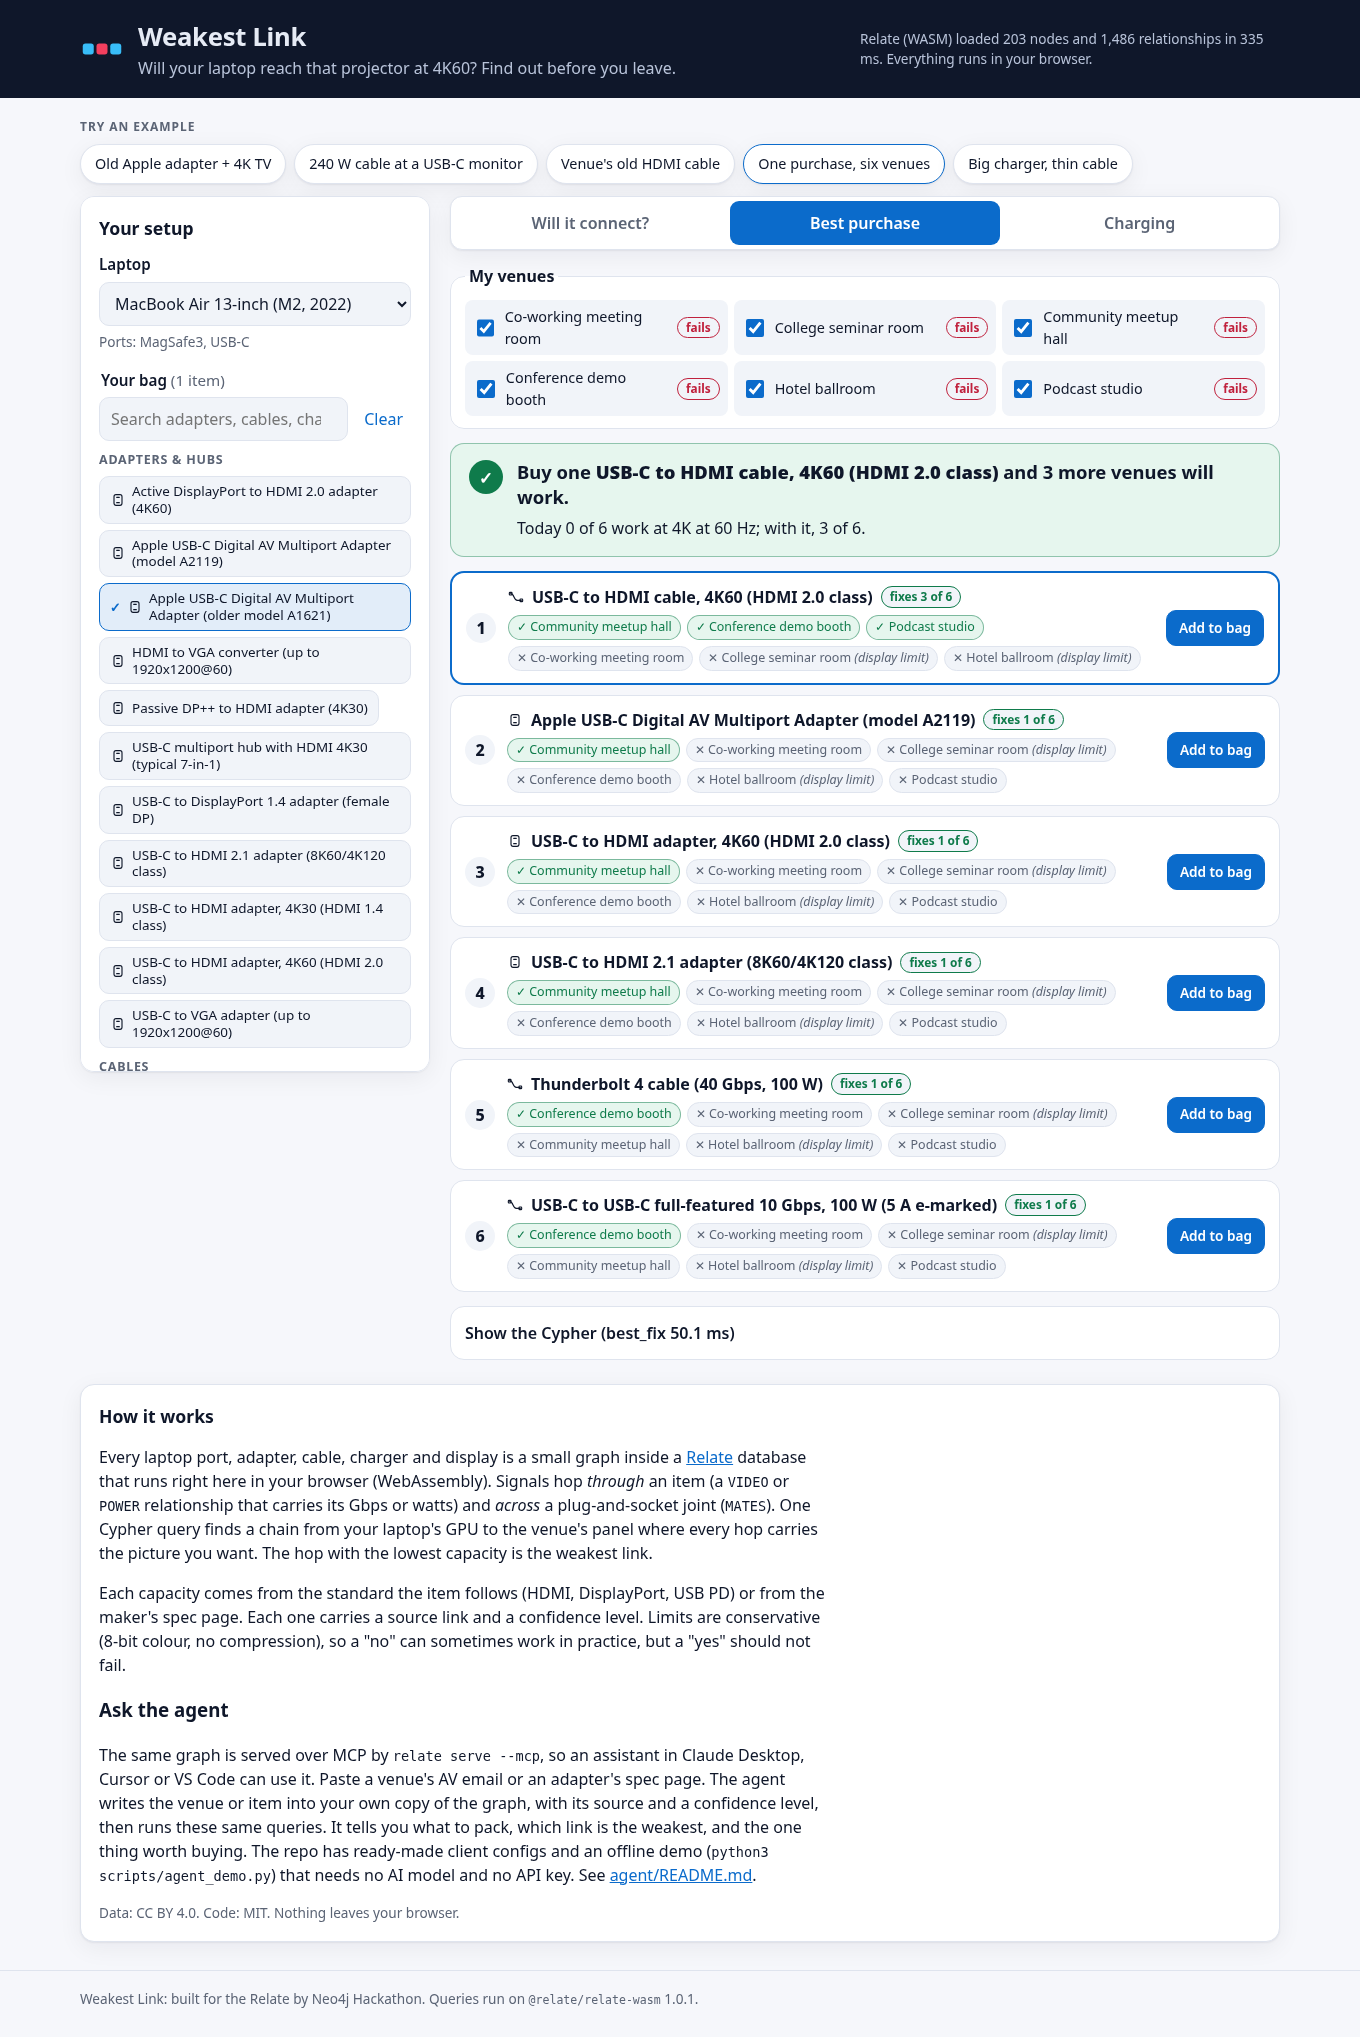
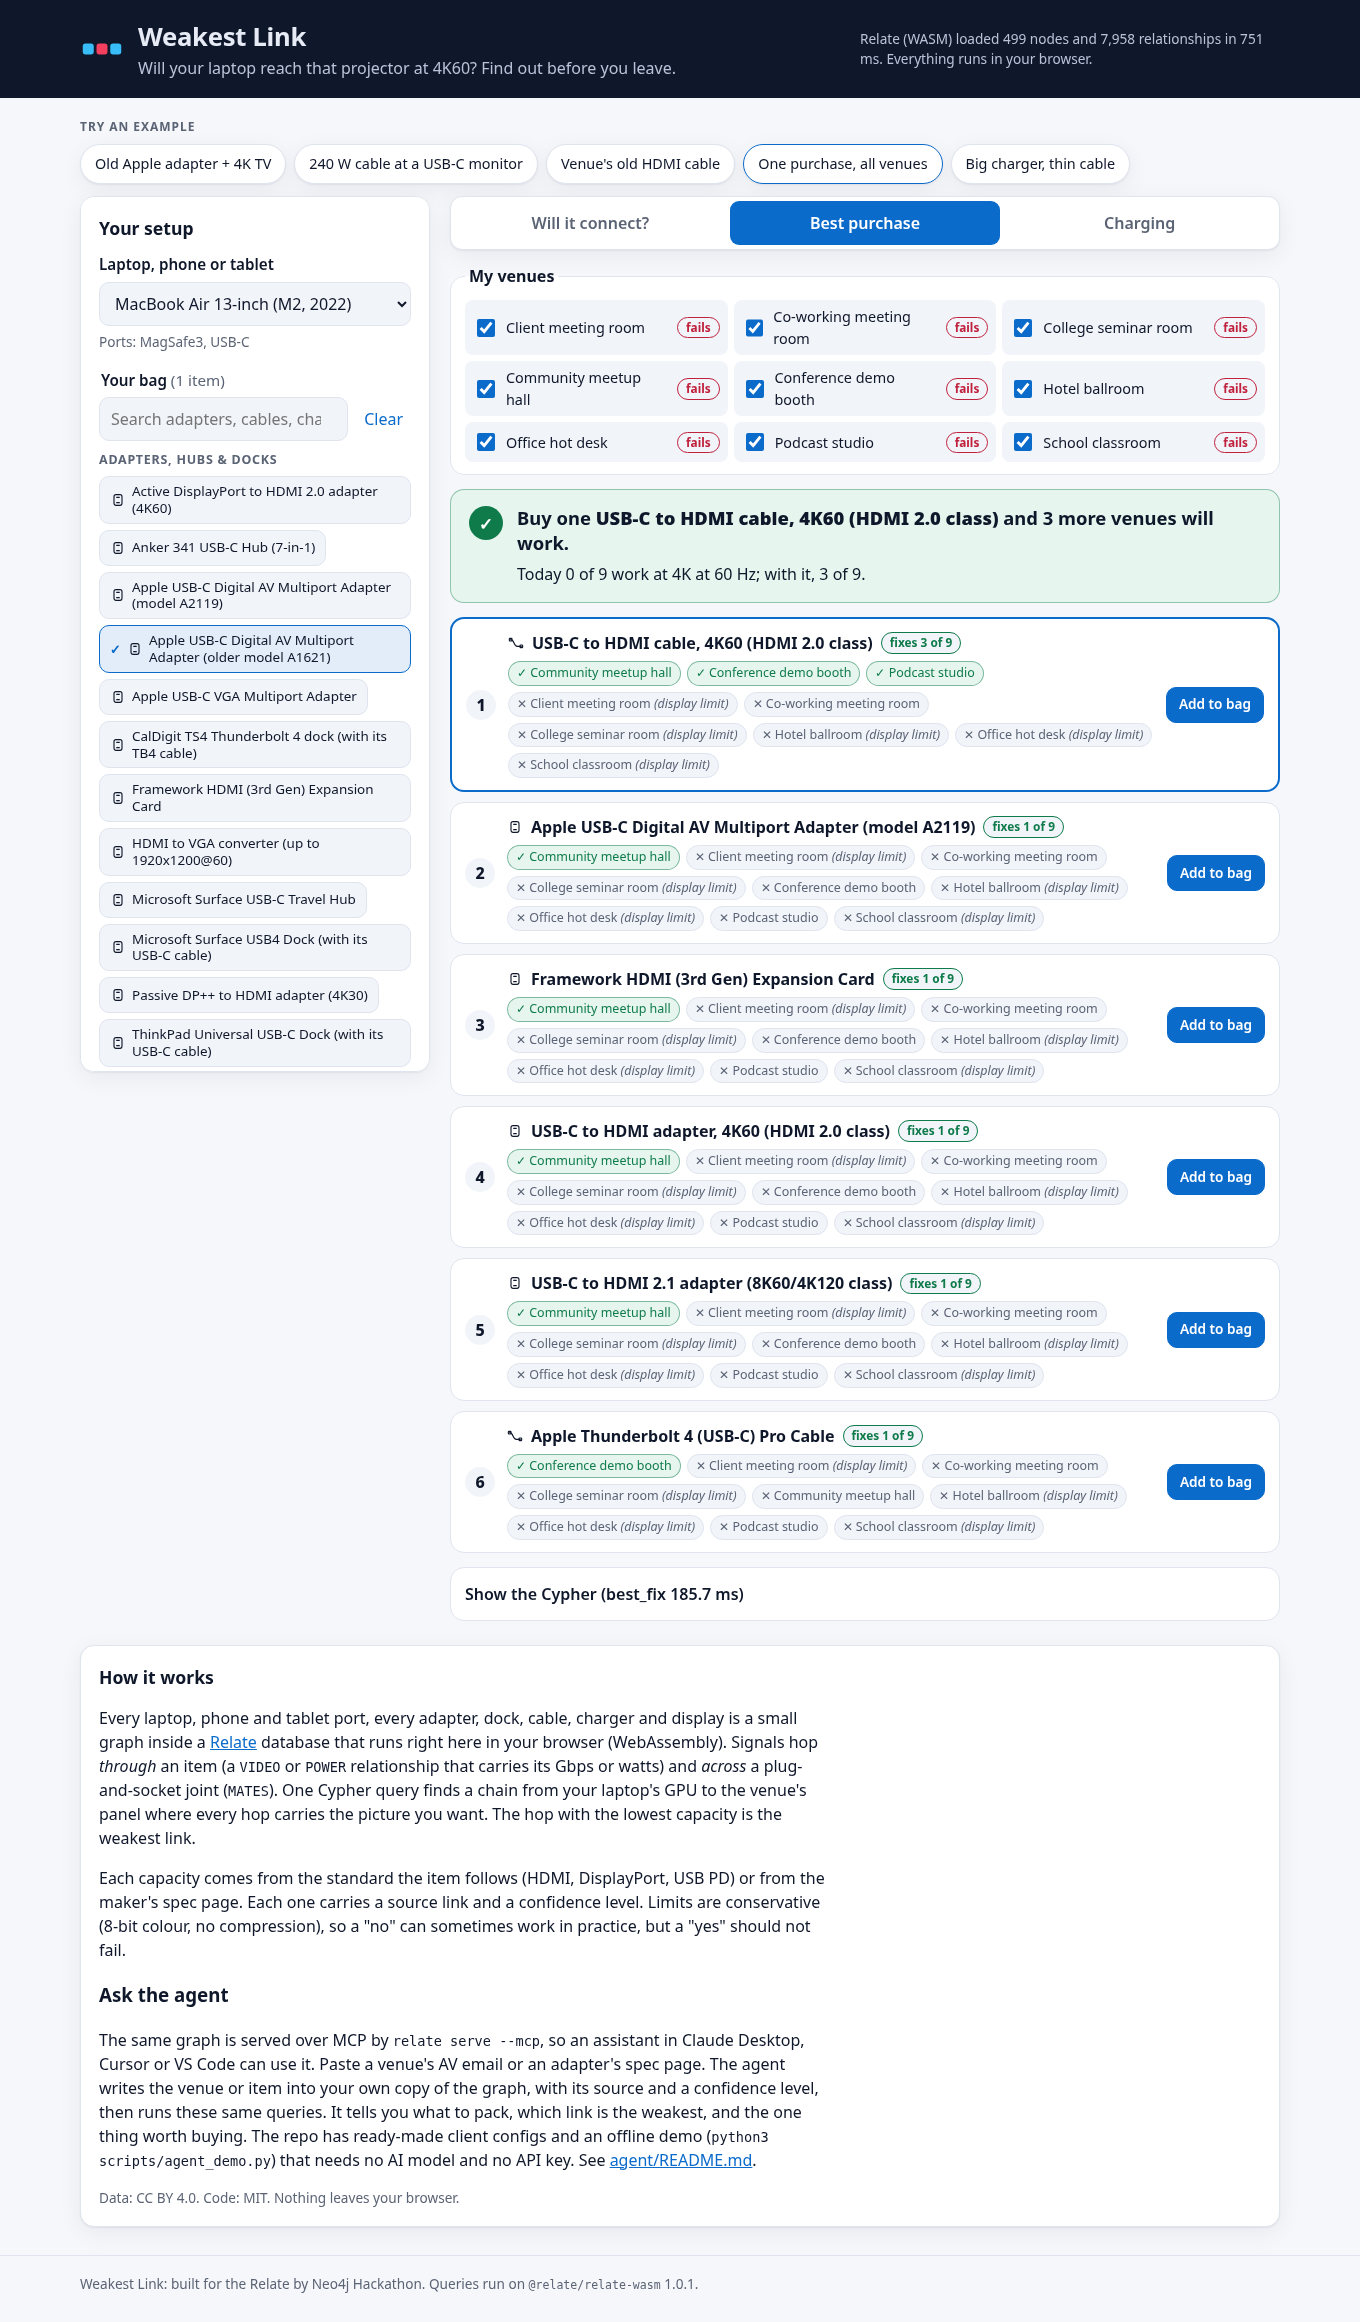
UI: phones and tablets in the device picker, docks and USB-C monitors count as chargers, public source links, e2e tests for the new traps, refreshed screenshots

Changed region(s): [[0.0, 0.0, 1.0, 0.9897], [0.8956, 0.1237, 0.9265, 0.2165]]

diff --git a/web/src/main.js b/web/src/main.js
@@ -20,7 +20,10 @@ const CUSTOM_INPUTS = [
   { id: 'usbc', connector: 'USB-C', standard: 'DP-Alt-4L-HBR3', label: 'USB-C (DisplayPort)' },
   { id: 'vga', connector: 'VGA', standard: 'VGA-1200p', label: 'VGA' },
 ];
-const BAG_GROUPS = [['adapter', 'Adapters & hubs'], ['cable', 'Cables'], ['charger', 'Chargers']];
+const BAG_GROUPS = [['adapter', 'Adapters, hubs & docks'], ['cable', 'Cables'], ['charger', 'Chargers']];
+const DEVICE_GROUPS = [['laptop', 'Laptops'], ['phone', 'Phones'], ['tablet', 'Tablets']];
+const isDevice = (id) => DEVICE_GROUPS.some(([k]) => k === ITEM.get(id)?.kind);
+const deviceWord = () => ({ phone: 'phone', tablet: 'tablet' })[ITEM.get(state.laptop)?.kind] || 'laptop';
 const ICON = {
   laptop: '<path d="M5 6h14v9H5z"/><path d="M2 18h20"/>',
   adapter: '<rect x="6" y="4" width="12" height="16" rx="3"/><path d="M10 8h4M10 16h4"/>',
@@ -32,7 +35,7 @@ const EXAMPLES = [
   { label: 'Old Apple adapter + 4K TV', state: { laptop: 'mba-m2', bag: ['adp-apple-av-a1621', 'hub-usbc-4k30', 'chg-apple-70w', 'cable-usbc-usb2-60w'], venue: 'meetup-hall', mode: '4K60', tab: 'connect' } },
   { label: '240 W cable at a USB-C monitor', state: { laptop: 'mba-m2', bag: ['cable-usbc-usb2-240w', 'chg-apple-70w'], venue: 'conference-booth', mode: '4K60', tab: 'connect' } },
   { label: "Venue's old HDMI cable", state: { laptop: 'mbp14-m3', bag: [], venue: 'studio-tv', mode: '4K60', tab: 'connect' } },
-  { label: 'One purchase, six venues', state: { laptop: 'mba-m2', bag: ['adp-apple-av-a1621'], venue: 'meetup-hall', mode: '4K60', tab: 'fix' } },
+  { label: 'One purchase, all venues', state: { laptop: 'mba-m2', bag: ['adp-apple-av-a1621'], venue: 'meetup-hall', mode: '4K60', tab: 'fix' } },
   { label: 'Big charger, thin cable', state: { laptop: 'mbp14-m3', bag: ['chg-apple-140w', 'cable-usbc-usb2-60w'], venue: 'meetup-hall', mode: '4K60', tab: 'power' } },
 ];
 
@@ -79,7 +82,7 @@ function writeHash() {
   history.replaceState(null, '', '#' + p.toString());
 }
 function sanitizeState() {
-  if (!ITEM.has(state.laptop) || ITEM.get(state.laptop).kind !== 'laptop') state.laptop = 'mba-m2';
+  if (!ITEM.has(state.laptop) || !isDevice(state.laptop)) state.laptop = 'mba-m2';
   state.bag = new Set([...state.bag].filter((id) => ITEM.has(id) && ['adapter', 'cable', 'charger'].includes(ITEM.get(id).kind)));
   if (state.venue !== 'custom' && !VENUE.has(state.venue)) state.venue = 'meetup-hall';
   if (!MODE.has(state.mode)) state.mode = '4K60';
@@ -88,8 +91,8 @@ function sanitizeState() {
 
 // ---------- controls ----------
 function renderControls() {
-  const laptops = CAT.items.filter((i) => i.kind === 'laptop');
-  $('#laptop').innerHTML = laptops.map((i) => `<option value="${i.id}">${esc(i.name)}</option>`).join('');
+  $('#laptop').innerHTML = DEVICE_GROUPS.map(([kind, title]) => `<optgroup label="${title}">${CAT.items.filter((i) => i.kind === kind)
+    .map((i) => `<option value="${i.id}">${esc(i.name)}</option>`).join('')}</optgroup>`).join('');
   $('#laptop').value = state.laptop;
 
   $('#venue').innerHTML = CAT.venues.map((v) => `<option value="${v.id}">${esc(v.name)}</option>`).join('')
@@ -148,7 +151,7 @@ function applyCustom() {
 
 // ---------- chain diagram ----------
 function hopOwner(id) {
-  if (id === state.laptop) return 'Your laptop';
+  if (id === state.laptop) return `Your ${deviceWord()}`;
   const venueProvides = state.venue === 'custom' ? ['custom-display', state.custom.cable] : VENUE.get(state.venue)?.provides || [];
   if (state.bag.has(id) && !venueProvides.includes(id)) return 'In your bag';
   if (venueProvides.includes(id)) return 'At the venue';
@@ -244,7 +247,7 @@ function renderConnect() {
     diagram = chainDiagram(best.hops, best.joints, { unit: 'Gbps', need: mode.gbps, weakest: best.weakest_item });
   } else {
     const dispConn = run(`MATCH (:Item {id: $d})-[:HAS_PORT]->(p:Port) RETURN collect(DISTINCT p.connector) AS c`, { d: displayId })[0]?.c || [];
-    verdict = verdictCard('bad', 'No. Nothing in your bag connects your laptop to this display.',
+    verdict = verdictCard('bad', `No. Nothing in your bag connects your ${deviceWord()} to this display.`,
       `Your ${esc(lap)} has ${esc(ITEM.get(state.laptop).connectors.filter((x) => x !== 'MagSafe3').join(' and '))}; the ${esc(display)} takes
        ${esc(dispConn.join(' or ') || 'nothing we know')}.${venueItems.length > 1 ? ` The venue provides ${venueItems.filter((i) => i !== displayId).map((i) => esc(shortName(i))).join(', ')}.` : ''}
        ${bag.some((id) => id.startsWith('cable-usbc-usb2')) ? ' USB 2.0 charge cables carry no video.' : ''}`);
@@ -323,33 +326,33 @@ function renderFix() {
 function renderPower() {
   const lap = ITEM.get(state.laptop);
   const bag = [...state.bag];
-  const chargers = bag.filter((id) => ITEM.get(id)?.kind === 'charger');
+  const chargers = bag.filter((id) => ITEM.get(id)?.power_source);
   const params = { laptop: state.laptop, bag };
   const p = query('power', params);
   let body = '';
   if (!chargers.length) {
-    body = verdictCard('warn', 'Add a charger to your bag to check charging.', 'Pick one below. You will also need a cable that fits between it and the laptop.')
+    body = verdictCard('warn', 'Add a charger to your bag to check charging.', `Pick one below (a dock or USB-C monitor with its own power supply also counts). You will also need a cable that fits between it and the ${deviceWord()}.`)
       + `<div class="chips">${CAT.items.filter((i) => i.kind === 'charger').map((i) => `<button type="button" class="chip as-btn" data-add="${i.id}">${icon('charger', 'icon sm')}<span>${esc(i.name)}</span></button>`).join('')}</div>`;
-  } else if (lap.pd_recommended_w == null) {
+  } else if (!lap.charges) {
     body = verdictCard('bad', `Your ${esc(shortName(state.laptop))} doesn't charge over USB-C.`, 'It charges from its own barrel-jack adapter. Its USB-C port is data only.');
   } else if (!p.rows.length) {
-    body = verdictCard('bad', 'No way to plug your charger into your laptop.',
-      `None of the cables in your bag fits between ${chargers.map((c) => esc(shortName(c))).join(' / ')} and your laptop. You need a USB-C to USB-C cable${lap.connectors.includes('MagSafe3') ? ' or a USB-C to MagSafe 3 cable' : ''}.`);
+    body = verdictCard('bad', `No way to plug your charger into your ${deviceWord()}.`,
+      `None of the cables in your bag fits between ${chargers.map((c) => esc(shortName(c))).join(' / ')} and your ${deviceWord()}. You need a USB-C to USB-C cable${lap.connectors.includes('MagSafe3') ? ' or a USB-C to MagSafe 3 cable' : ''}.`);
   } else {
     body = p.rows.map((r) => {
       const v = {
-        'fast-charge': ['ok', `Fast-charges. Up to ${fmt(r.capacity_w)} W can reach the laptop.`, `The maker says fast charging needs ${fmt(r.fast_w)} W or more.`],
-        'full-speed': ['ok', `Charges normally. Up to ${fmt(r.capacity_w)} W reaches the laptop.`, `That meets the ${fmt(r.recommended_w)} W recommended${r.fast_w ? `, but fast charging needs ${fmt(r.fast_w)} W` : ''}.`],
+        'fast-charge': ['ok', `Fast-charges. Up to ${fmt(r.capacity_w)} W can reach the ${deviceWord()}.`, `The maker says fast charging needs ${fmt(r.fast_w)} W or more.`],
+        'full-speed': ['ok', `Charges normally. Up to ${fmt(r.capacity_w)} W reaches the ${deviceWord()}.`, `That meets the ${fmt(r.recommended_w)} W recommended${r.fast_w ? `, but fast charging needs ${fmt(r.fast_w)} W` : ''}.`],
         'below-recommended': ['warn', `Charges slowly. Only ${fmt(r.capacity_w)} W gets through.`, `The weakest link is the <strong>${esc(shortName(r.weakest_item))}</strong>. The recommended minimum is ${fmt(r.recommended_w)} W, so under heavy use the battery may still drain.`],
-        unknown: ['warn', `About ${fmt(r.capacity_w)} W can reach the laptop.`, ''],
+        unknown: ['warn', `About ${fmt(r.capacity_w)} W can reach the ${deviceWord()}.`, 'The maker does not publish a recommended wattage, so we cannot say whether that is full speed.'],
       }[r.verdict];
       const need = r.verdict === 'fast-charge' ? r.fast_w : r.recommended_w;
       return `<article class="power-card"><h3 class="visually-hidden">${esc(itemName(r.charger))}</h3>${verdictCard(v[0], `${esc(shortName(r.charger))}: ${v[1]}`, v[2])}
-        ${chainDiagram(r.hops, r.joints, { unit: 'W', need, weakest: r.weakest_item, owner: (id) => (id === state.laptop ? 'Your laptop' : 'In your bag') })}</article>`;
+        ${chainDiagram(r.hops, r.joints, { unit: 'W', need, weakest: r.weakest_item, owner: (id) => (id === state.laptop ? `Your ${deviceWord()}` : 'In your bag') })}</article>`;
     }).join('');
     const charging = new Set(p.rows.map((r) => r.charger));
     const unplugged = chargers.filter((c) => !charging.has(c));
-    if (unplugged.length) body += `<p class="hint">No cable in your bag fits ${unplugged.map((c) => esc(shortName(c))).join(', ')} to this laptop.</p>`;
+    if (unplugged.length) body += `<p class="hint">No cable in your bag fits ${unplugged.map((c) => esc(shortName(c))).join(', ')} to this ${deviceWord()}.</p>`;
   }
   $('#panel-power').innerHTML = body + cypherDetails([{ name: 'power', params, ms: p.ms }]);
 }

diff --git a/tests/e2e/app.spec.js b/tests/e2e/app.spec.js
@@ -19,13 +19,14 @@ const verdict = (page, tab = 'connect') => page.locator(`#panel-${tab} .verdict`
 
 test('engine loads the graph in the browser and answers the default example', async ({ page }, info) => {
   const errors = await open(page);
-  await expect(page.locator('#engine-status')).toContainText('203 nodes and 1,486 relationships');
+  await expect(page.locator('#engine-status')).toContainText('499 nodes and 7,958 relationships');
   await expect(verdict(page)).toHaveAttribute('data-verdict', 'warn');
   await expect(verdict(page)).toContainText("Not at 4K at 60 Hz. You'll get 4K at 30 Hz instead.");
   const weak = page.locator('#panel-connect .hop.weak');
   await expect(weak).toHaveCount(1);
   await expect(weak.locator('.hop-name')).toContainText('USB-C multiport hub');
-  await expect(weak.locator('a.src')).toHaveAttribute('href', /docs\/DATA\.md$/);
+  // generic items cite the public spec page of the standard they claim, never the repo
+  await expect(weak.locator('a.src')).toHaveAttribute('href', 'https://www.hdmi.org/spec/hdmi1_4b');
   await expect(page.locator('#panel-connect .hop')).toHaveCount(4);
   if (info.project.name === 'desktop') await page.screenshot({ path: `${SHOTS}/desktop-connect-weakest-link.png`, fullPage: true });
   else await page.screenshot({ path: `${SHOTS}/mobile-connect.png` });
@@ -90,16 +91,16 @@ test('custom display becomes part of the graph', async ({ page }, info) => {
 
 test('best single purchase across my venues', async ({ page }, info) => {
   await open(page);
-  await example(page, 'One purchase, six venues');
+  await example(page, 'One purchase, all venues');
   await expect(page.getByRole('tab', { name: 'Best purchase' })).toHaveAttribute('aria-selected', 'true');
   await expect(verdict(page, 'fix')).toContainText('USB-C to HDMI cable, 4K60');
   const top = page.locator('#panel-fix .rank').first();
-  await expect(top).toContainText('fixes 3 of 6');
+  await expect(top).toContainText('fixes 3 of 9');
   await expect(top.locator('.vchip.ok')).toHaveCount(3);
   if (info.project.name === 'desktop') await page.screenshot({ path: `${SHOTS}/desktop-best-purchase.png`, fullPage: true });
   else await page.screenshot({ path: `${SHOTS}/mobile-best-purchase.png` });
   await page.locator('#panel-fix .venue-pick').getByLabel(/Conference demo booth/).uncheck();
-  await expect(page.locator('#panel-fix .rank').first()).toContainText('fixes 2 of 5');
+  await expect(page.locator('#panel-fix .rank').first()).toContainText('fixes 2 of 8');
 });
 
 test('charging: a thin cable throttles a big charger', async ({ page }, info) => {
@@ -147,7 +148,38 @@ test('no serious accessibility violations (axe)', async ({ page }) => {
 
 test('answers quickly once loaded', async ({ page }) => {
   await open(page);
-  await example(page, 'One purchase, six venues');
+  await example(page, 'One purchase, all venues');
   const ms = Number(await page.locator('body').getAttribute('data-last-render-ms'));
   expect(ms).toBeLessThan(1500);
+});
+
+test('phones and tablets: a Pixel 7a has no wired video, a Pixel 8 does', async ({ page }) => {
+  const errors = await open(page, '#l=pixel-7a&b=cable-usbc-dp14&v=conference-booth&m=1080p60&t=connect');
+  await expect(page.locator('#laptop optgroup')).toHaveCount(3);
+  await expect(page.locator('#laptop optgroup[label="Phones"] option[value="iphone-15"]')).toHaveCount(1);
+  await expect(verdict(page)).toHaveAttribute('data-verdict', 'bad');
+  await expect(verdict(page)).toContainText('your phone');
+  await page.locator('#laptop').selectOption('pixel-8');
+  await expect(verdict(page)).toHaveAttribute('data-verdict', 'ok');
+  expect(errors).toEqual([]);
+});
+
+test('a dock with its own power supply counts as a charger', async ({ page }) => {
+  const errors = await open(page, '#l=t14-g4&b=dock-lenovo-universal&v=meetup-hall&m=4K60&t=power');
+  const card = page.locator('#panel-power .power-card').first();
+  await expect(card).toContainText('Fast-charges. Up to 65 W');
+  await expect(card.locator('a.src').first()).toHaveAttribute('href', /^https:\/\/(techtoday\.lenovo\.com|psref\.lenovo\.com)\//);
+  expect(errors).toEqual([]);
+});
+
+test('no source link in the UI points at the repo', async ({ page }) => {
+  await open(page, '#l=mba-m2&b=adp-apple-av-a1621,hub-usbc-4k30,chg-gen-65w,cable-usbc-usb2-60w&v=meetup-hall&m=4K60&t=connect');
+  const hrefs = [];
+  for (const tab of ['connect', 'fix', 'power']) {
+    await page.locator(`#tab-${tab}`).click();
+    await expect(page.locator(`#panel-${tab}`)).toBeVisible();
+    hrefs.push(...await page.locator(`#panel-${tab} a.src`).evaluateAll((as) => as.map((a) => a.href)));
+  }
+  expect(hrefs.length).toBeGreaterThan(3);
+  for (const h of hrefs) expect(h).not.toContain('github.com');
 });

diff --git a/web/index.html b/web/index.html
@@ -34,7 +34,7 @@
         <h2 id="setup-h">Your setup</h2>
 
         <div class="field">
-          <label for="laptop">Laptop</label>
+          <label for="laptop">Laptop, phone or tablet</label>
           <select id="laptop"></select>
           <p class="hint" id="laptop-ports"></p>
         </div>
@@ -91,7 +91,7 @@
 
     <section class="how card" aria-labelledby="how-h">
       <h2 id="how-h">How it works</h2>
-      <p>Every laptop port, adapter, cable, charger and display is a small graph inside a
+      <p>Every laptop, phone and tablet port, every adapter, dock, cable, charger and display is a small graph inside a
         <a href="https://relatedb.ai">Relate</a> database that runs right here in your browser (WebAssembly). Signals hop
         <em>through</em> an item (a <code>VIDEO</code> or <code>POWER</code> relationship that carries its Gbps or watts) and
         <em>across</em> a plug-and-socket joint (<code>MATES</code>). One Cypher query finds a chain from your laptop's GPU to the

diff --git a/web/src/engine.js b/web/src/engine.js
@@ -49,9 +49,13 @@ export function catalog() {
     items: run(`MATCH (i:Item)
       OPTIONAL MATCH (i)-[:HAS_PORT]->(p:Port)
       WITH i, collect(DISTINCT p.connector) AS connectors
+      OPTIONAL MATCH (i)-[:HAS_ENDPOINT]->(ps:Endpoint {role: 'power-source'})
+      WITH i, connectors, count(ps) > 0 AS power_source
+      OPTIONAL MATCH (i)-[:HAS_ENDPOINT]->(bat:Endpoint {role: 'power-sink'})<-[pw:POWER]-()
+      WITH i, connectors, power_source, count(pw) > 0 AS charges
       RETURN i.id AS id, i.name AS name, i.kind AS kind, i.class AS class, i.maker AS maker,
              i.purchasable AS purchasable, i.pd_recommended_w AS pd_recommended_w, i.pd_fast_w AS pd_fast_w,
-             connectors ORDER BY i.kind, i.name`),
+             connectors, power_source, charges ORDER BY i.kind, i.name`),
     venues: run(`MATCH (v:Venue)
       OPTIONAL MATCH (v)-[:PROVIDES]->(i:Item)
       WITH v, collect(i.id) AS provides
